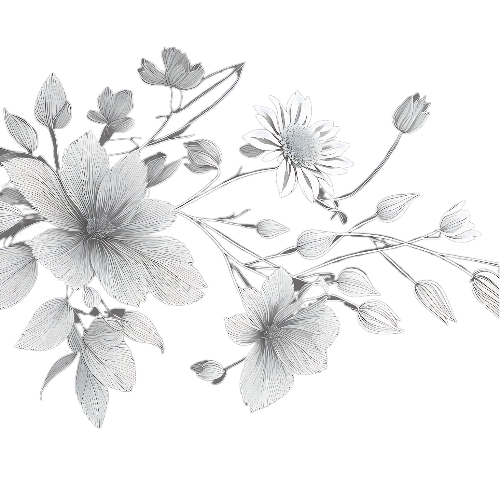
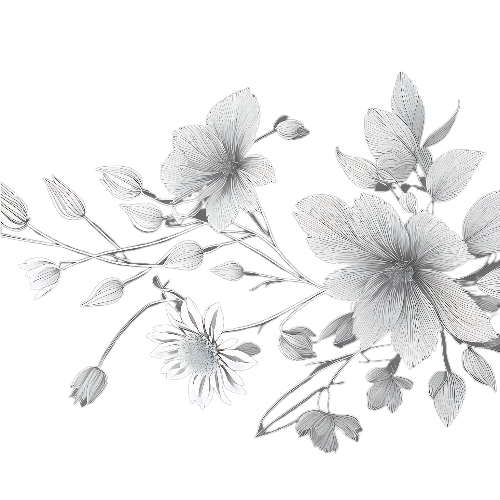
Started in on the about section
added some animations that trigger based on scroll position. Fixed some misc responsiveness issues, but still a lot of work to do to make sure things stay where they should on small screens

diff --git a/portfoliodelasam/src/Components/Home.module.css b/portfoliodelasam/src/Components/Home.module.css
@@ -2,6 +2,7 @@
     -webkit-font-smoothing: antialiased;
     -moz-osx-font-smoothing: grayscale;
     /* border: 1px solid white */
+    overflow-x:hidden
 }
 
 .homeRoot {
@@ -15,58 +16,20 @@
 
 .bottomLeftDiagonal {
     /* margin-top: 25vmin; */
-    border: 2px solid var(--electricgreen);
-    height: 50vmin;
-    width: 50vmin;
+    border: 2px solid var(--slate);
+    height: 30vmin;
+    width: 30vmin;
+    height: 48vmin;
+    width: 48vmin;
 
     transform: rotate(45deg);
 
     transform-origin: left;
     position: absolute;
-    margin-top: 57vmin;
-
-}
-/* .topLeftDiagonal {
-    
-    border-bottom: 2px solid var(--electricgreen);
-    
-    width: 25%;
-
-    transform: rotate(-45deg);
-
-    transform-origin: left;
-    margin-top: 69.2vh;
-} */
-
-.accent1 {
-    min-width: 10%;
-    min-height: 10%;
-    margin-left: 20px;
-    background-color: var(--electricblue);
-}
-
-.accent2 {
-    width: 1%;
-    margin-left: 20px;
-    background-color: var(--electricpurple);
-}
-
-.accent3 {
-    width: 1%;
-    margin-left: 20px;
-    background-color: var(--electricgreen);
-}
-
-.accent4 {
-    width: 1%;
-    margin-left: 20px;
-    background-color: var(--orange);
-}
-
-.accent5 {
-    width: 1%;
-    margin-left: 20px;
-    background-color: var(--magenta);
+    margin-top: 74.5vmin;
+    margin-top: 58.5vmin;
+    -webkit-animation: rotate-90-cw 0.4s cubic-bezier(0.250, 0.460, 0.450, 0.940)  both;
+	        animation: rotate-90-cw 0.4s cubic-bezier(0.250, 0.460, 0.450, 0.940)  both;
 }
 
 .topLeftWrapper {
@@ -85,12 +48,11 @@
 
 }
 
-
 .button {
     background-color: rgba(100, 255, 218, 0);
     color: var(--electricgreen);
     border-color: var(--electricgreen);
-    padding: 8px;
+    padding: calc(4px + 0.35vmin);
     align-self: center;
     font-family: "SF Mono", "Fira Code", "Fira Mono", "Roboto Mono", monospace;
     font-size: calc(5.5px + 0.78vmin);
@@ -107,23 +69,32 @@
 }
 
 .borderTop {
-    /* position: absolute; */
+    position: absolute;
     width: 15%;
     height: 4.5vh;
     border-top: 1px solid var(--dark-slate);
     border-right: 1px solid var(--dark-slate);
     /* margin: 35vh 0 0 50vw */
     margin-left: 45vmin;
+    /* margin-bottom: 24vmin; */
+    align-self: center;
+    /* margin-top: 16.5%; */
+    top: 0
 }
 
 .borderBottom {
-    /* position: absolute; */
+    position: absolute;
     width: 15%;
     height: 4.5vh;
     border-left: 1px solid var(--dark-slate);
     border-bottom: 1px solid var(--dark-slate);
-    margin-right: 45vmin;
+    /* margin-right: 45vmin; */
     /* margin: 55vh 0 0 34vw */
+    /* margin-top: 24vmin; */
+    align-self: center;
+    margin-right: 45vmin;
+    /* margin-top: 28.5%; */
+    bottom: 0;
 }
 
 .centerWrapper {
@@ -134,11 +105,18 @@
     align-items: center;
     position: absolute;
     width: 99%;
-    margin-top: 17%;
+    margin-top: 17.5%;
+    padding-top: 3.2vmin;
+    padding-bottom: 3.2vmin;
 }
 
 .flowerImage2 {
     width: 10%;
+    position: absolute;
+    right:0;
+    margin-top: 135vh;
+    -webkit-animation: slide-in-right 0.5s cubic-bezier(0.250, 0.460, 0.450, 0.940) both;
+	        animation: slide-in-right 0.5s cubic-bezier(0.250, 0.460, 0.450, 0.940) both;
 }
 
 .flowerImage3 {
@@ -210,17 +188,18 @@
     margin: 0;
     margin-bottom: 1.2%;
     font-family: "SF Mono", "Fira Code", "Fira Mono", "Roboto Mono", monospace;
-    font-size: calc(10.5px + 2.8vmin);
+    font-size: calc(10px + 2.8vmin);
     text-shadow: var(--dark-slate) 1.5px 1.5px;
     -webkit-font-smoothing: antialiased;
     -moz-osx-font-smoothing: grayscale;
+    /* font-weight: 600; */
 }
 
 .descriptionText {
     margin-top: 0;
     max-width: 25%;
     color: var(--dark-slate);
-    font-size: calc(8);
+    font-size: calc(8px + 0.8vmin);
 }
 
 .textExpand {
@@ -229,8 +208,8 @@
     margin-right: 40vmin;
     font-size: calc(7px + 0.8vmin);
     color: var(--light-slate);
-    -webkit-animation: focus-in-contract 0.7s cubic-bezier(0.250, 0.460, 0.450, 0.940) both;
-    animation: focus-in-contract 0.7s cubic-bezier(0.250, 0.460, 0.450, 0.940) both;
+    -webkit-animation: focus-in-contract 0.7s cubic-bezier(0.250, 0.460, 0.450, 0.940) 3s both;
+    animation: focus-in-contract 0.7s cubic-bezier(0.250, 0.460, 0.450, 0.940) 3s both;
 }
 
 @-webkit-keyframes focus-in-contract {
@@ -375,9 +354,6 @@ body::-webkit-scrollbar-track-piece {
     border-radius: 2%;
 }
 
-
-
-
 :root {
     --primary: rgba(17, 38, 64, 1);
     --electricblue: rgba(0, 192, 255, 1);
@@ -438,3 +414,60 @@ body::-webkit-scrollbar-track-piece {
     --ham-after: bottom 0.1s ease-in 0.25s, transform 0.22s cubic-bezier(0.55, 0.055, 0.675, 0.19);
     --ham-after-active: bottom 0.1s ease-out, transform 0.22s cubic-bezier(0.215, 0.61, 0.355, 1) 0.12s;
 }
+
+@-webkit-keyframes rotate-90-cw {
+    0% {
+      -webkit-transform: rotate(0);
+              transform: rotate(0);
+    }
+    100% {
+      -webkit-transform: rotate(45deg);
+              transform: rotate(45deg);
+    }
+  }
+  @keyframes rotate-90-cw {
+    0% {
+      -webkit-transform: rotate(0);
+              transform: rotate(0);
+    }
+    100% {
+      -webkit-transform: rotate(45deg);
+              transform: rotate(45deg);
+    }
+  }
+
+  @-webkit-keyframes slide-in-right {
+    0% {
+      -webkit-transform: translateX(1000px);
+              transform: translateX(1000px);
+      opacity: 0;
+    }
+    100% {
+      -webkit-transform: translateX(0);
+              transform: translateX(0);
+      opacity: 1;
+    }
+  }
+  @keyframes slide-in-right {
+    0% {
+      -webkit-transform: translateX(1000px);
+              transform: translateX(1000px);
+      opacity: 0;
+    }
+    100% {
+      -webkit-transform: translateX(0);
+              transform: translateX(0);
+      opacity: 1;
+    }
+  }
+  
+
+  .aboutBackground {
+    background-color: rgb(74, 86, 112, 0.6);
+    position: absolute;
+    height: 20vh;
+    width: 20vmin;
+    width: 40%;
+    margin-left: 30%;
+    margin-top: 135vmin;
+  }

diff --git a/portfoliodelasam/src/Components/Home.js b/portfoliodelasam/src/Components/Home.js
@@ -1,4 +1,4 @@
-import React from "react";
+import React, { useState, useEffect } from "react";
 import styles from './Home.module.css'
 import { Link } from "react-router-dom";
 import { FiGithub } from 'react-icons/fi'
@@ -7,16 +7,25 @@ import { SiCodewars } from 'react-icons/si'
 
 
 function Home({ setRouteTo }) {
+    const [scrollPosition, setScrollPosition] = useState(window.scrollY);
+
+    useEffect(() => {
+        function handleScroll() {
+          setScrollPosition(window.scrollY); // Update the scroll position state
+          console.log("useEffect running")
+        }
+        window.addEventListener('scroll', handleScroll);
+        // return () => window.removeEventListener('scroll', handleScroll);
+      }, []);
 
     return (
         <div className={styles.homeRoot}>
             <div className={`${styles.emailWrapper}`}>
                 <img className={styles.flowerImage8} src="flowerVine5.png" alt="white flowers"></img>
-                
                     <p className={`${styles.emailLine} ${styles.slideInTop}`}></p>
                     <a href="mailto:sam.ban@gmail.com" className={`${styles.email} ${styles.slideInTop}`}>sam.ban@gmail.com</a>
-                
             </div>
+            
             <div className={styles.centerWrapper}>
               <span className= {styles.borderTop}></span>
               <p className={styles.textExpand}>hello, my name is,</p>
@@ -29,40 +38,29 @@ function Home({ setRouteTo }) {
                     }}
                 >See my Work</button>
             </Link>
-              <span className= {styles.borderBottom}></span>
+            <span className= {styles.borderBottom}></span>  
             </div>
-
-    
-
+            
             <div className={styles.topLeftWrapper}>
                 {/* <span className={styles.email}>sam.ban@gmail.com</span> */}
                 <FiGithub className={`${styles.socialIcons} ${styles.slideInBottom}`} size={'2.3vmin'} />
                 <SiCodewars className={`${styles.socialIcons} ${styles.slideInBottom}`} size={'2vmin'} />
                 <AiFillLinkedin className={`${styles.socialIcons} ${styles.slideInBottom}`} size={'2.3vmin'} />
 
-
                 <p className={`${styles.emailLine} ${styles.slideInBottom}`}></p>
                 <img className={styles.flowerImage7} src="flowerVine8.png" alt="white flowers"></img>
             </div>
-            <div className={styles.bottomLeftDiagonal}></div>
-            <div className={styles.topLeftDiagonal}></div>
+            <div className={`${styles.bottomLeftDiagonal}`}></div>
 
-            {/* <img className = {styles.flowerImage2} src="flowerVine2.png" alt="white flowers"></img> */}
-            <p className={styles.accent1}></p>
-            <p className={styles.accent2}></p>
-            <p className={styles.accent3}></p>
-            <p className={styles.accent4}></p>
-            <p className={styles.accent5}></p>
-            <p className={styles.accent6}></p>
-            {/* <img className = {styles.flowerImage3} src="flowerVine3.png" alt="white flowers"></img> */}
-            {/* <img className = {styles.flowerImage4} src="flowerVine4.png" alt="white flowers"></img> */}
-
-            {/* <img className = {styles.flowerImage5} src="flowerVine6.png" alt="white flowers"></img> */}
+            { scrollPosition >= 700 &&
+              <img className = {styles.flowerImage2} src="flowerVine2.png" alt="white flowers"></img>
+            }
+            {/* <img className = {styles.flowerImage3} src="flowerVine3.png" alt="white flowers"></img>
+            <img className = {styles.flowerImage4} src="flowerVine4.png" alt="white flowers"></img>
+            <img className = {styles.flowerImage5} src="flowerVine6.png" alt="white flowers"></img> */}
             {/* <img className = {styles.flowerImage6} src="flowerVine7.png" alt="white flowers"></img> */}
-
-            
+            <div className={styles.aboutBackground}></div>
         </div>
-
     )
 }
 

diff --git a/portfoliodelasam/src/Components/LoadingMain.module.css b/portfoliodelasam/src/Components/LoadingMain.module.css
@@ -5,7 +5,7 @@
   height: 100vh;
   margin: auto;
   width: 100%;
-  background-color: var(--dark-navy);
+  background-color: var(--primary);
 }
 .image {
     height: 26vmin;
